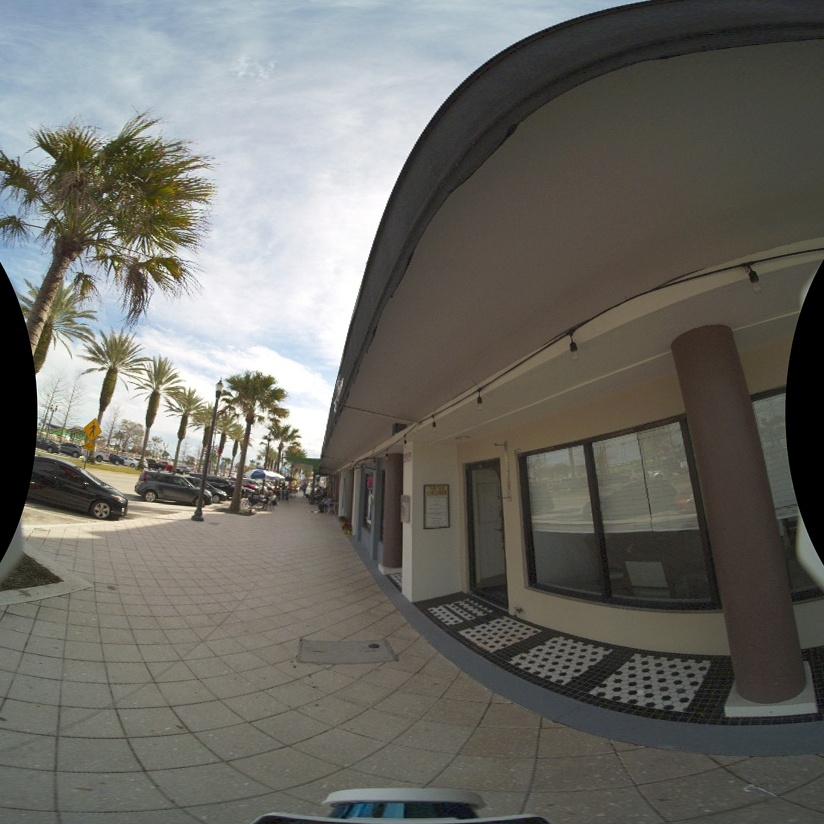
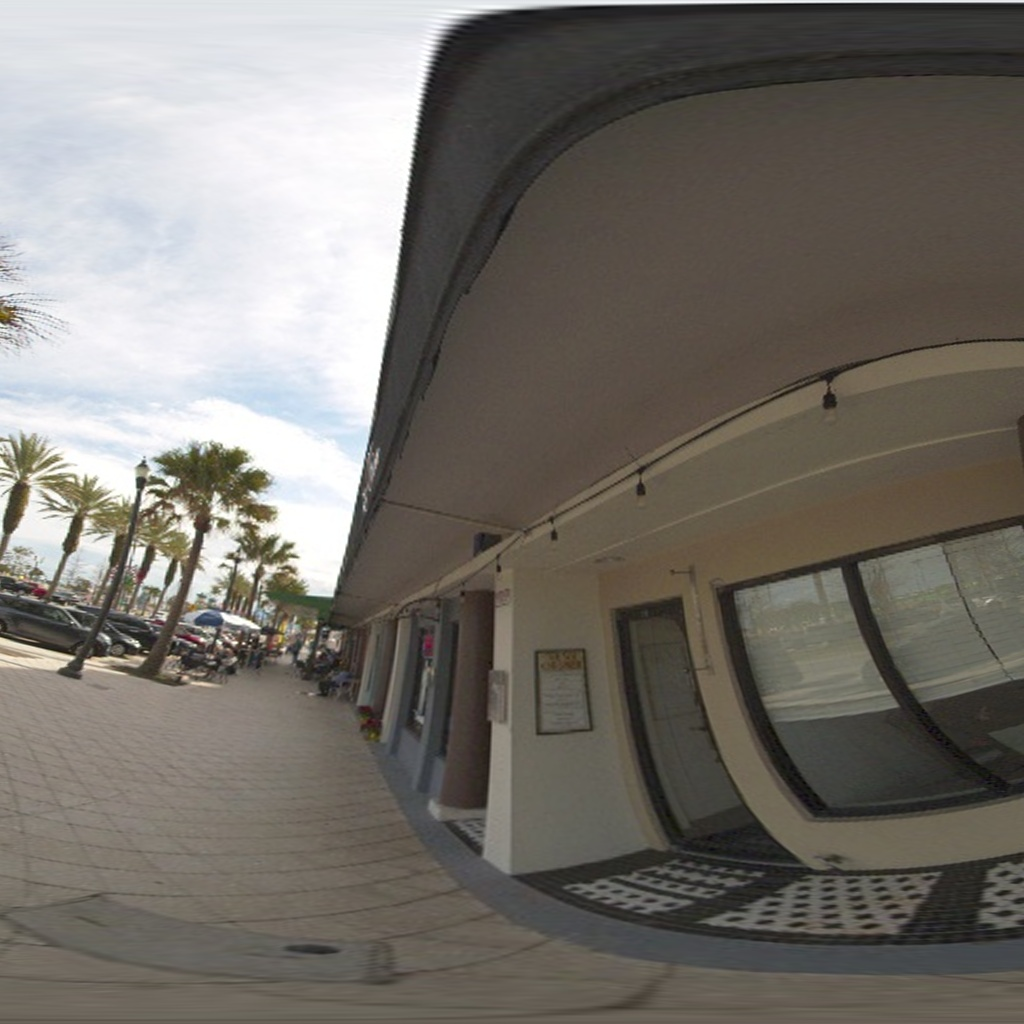
testing stitching algo

diff --git a/1_SCRIPTS/3_Testing/aframe_360_img.html b/1_SCRIPTS/3_Testing/aframe_360_img.html
@@ -16,7 +16,7 @@
         </a-camera>
 
         <!-- Loading in the initial image. -->
-        <a-sky id="background_img" src="0_resources/stitched_panorama8.jpg" background_img_id="'1"></a-sky>
+        <a-sky id="background_img" src="0_resources/00001-cam_stitched_panorama.jpg" background_img_id="'1"></a-sky>
         
         <!-- Creating planes to play a video or show an image -->
         <a-plane id="myButton" class="clickable" position="-9.322 -6.298 19.005" rotation="0 150.000 0" width="5" height="3" color="#4CC3D9" material="opacity: 0.5;">
@@ -40,7 +40,7 @@
 
         <a-entity id="move2" position="3 1.6 -4" class="clickable"
             geometry="primitive: ring; radiusInner: 0.02; radiusOuter: .5" material="color: #4CC3D9"
-            event-set__click="_target: #imageSky; _delay: 300; src: url(0_resources/stitched_panorama8.jpg)"
+            event-set__click="_target: #imageSky; _delay: 300; src: url(0_resources/00001-cam_stitched_panorama.jpg)"
             new_background_img_id = "1"
             background_img_id="2"
             my_type="move"

diff --git a/1_SCRIPTS/1_Preprocessing/equirectangular_projection.py b/1_SCRIPTS/1_Preprocessing/equirectangular_projection.py
@@ -88,11 +88,16 @@ def crop_image_sides(image, crop_pixels, side='horizontal'):
 
 # 0. Define input image
 image_folder = "new"
-image_paths = ['00001-cam0.jpg','00001-cam1.jpg', '00001-cam2.jpg','00001-cam3.jpg']
+img_name = "00001-cam"
+image_paths = [f'{img_name}2.jpg',f'{img_name}3.jpg', f'{img_name}0.jpg',f'{img_name}1.jpg']
 images = [cv2.imread(f"{image_folder}/{image_path}") for image_path in image_paths]
-for idx, image in enumerate(images):
+
+images = [cv2.imread("test5.jpg")]
+
+
+def fisheye_map(image, fov=80):
     width, height = image.shape[:2]
-    source_image = pad_image_to_square(image)
+    
 
     image_in_width = source_image.shape[0]
     image_in_height = source_image.shape[1]
@@ -103,45 +108,51 @@ for idx, image in enumerate(images):
 
     antialiasing = 2
     blend_factor = 0.5
-    fov = 60.0
-    aperture = .385
+    fov = (fov/180)*np.pi
 
     Cx = image_in_width / 2
     Cy = image_in_height / 2
-    image_radius = 1 #max([image_in_height, image_in_width])/2
+    image_radius = 1 #max([image_in_height, image_in_width])
+    xmax = np.sin(np.pi/2) * np.cos()
 
-    # 1. Define Cartesian Coordinates"
+    # 1. Define Cartesian Coordinates
     i, j = np.meshgrid(np.arange(image_out_width), np.arange(image_out_height))
 
     # 2. Normalize Cartesian Coordinates
-    i = i / image_out_width -.5 
-    j = j / image_out_height  -.5
+    i = (i / image_out_width -.5 )*2
+    j = (j / image_out_height  -.5)*2
 
     # 3. Get longitudinal and longitudinal coordinates in spherical coordinates    
     longitude = i * np.pi  
-    latitude   = j * np.pi 
+    latitude   = j * np.pi/2
 
     # 4. Convert Cartesian to Spherical Coordinates
     # Equivalent to arctan(y/x) or arctan(opp/adj)
-    x = image_radius * np.cos(longitude) * np.sin(latitude)
-    y = image_radius * np.cos(longitude) * np.cos(latitude)
-    z = image_radius * np.sin(longitude)
+    x = image_radius * np.cos(latitude) * np.cos(longitude)
+    y = image_radius * np.cos(latitude) * np.sin(longitude)
+    z = image_radius * np.sin(latitude)
 
     phi = np.arctan2(np.sqrt(x**2 + z**2), y)
     theta = np.arctan2(z, x) 
-    radius = 2 * phi / np.pi * 180 / aperture * image_radius
+    radius = 2 * phi / np.pi * 180 / fov / image_radius
 
-    X = (radius * np.cos(theta)).T.astype(np.float32) + Cy
-    Y = (radius * np.sin(theta)).T.astype(np.float32) + Cx
+    X = (radius * np.cos(theta)).T.astype(np.float32) - Cx
+    Y = (radius * np.sin(theta)).T.astype(np.float32) + Cy
 
+    return X, Y
+
+for idx, image in enumerate(images):
+    
+    source_image = pad_image_to_square(image)
+    X, Y = fisheye_map(image)
     output_image = cv2.remap(source_image, X, Y, interpolation=cv2.INTER_CUBIC, borderMode=cv2.BORDER_CONSTANT)
 
     plt.imshow(cv2.cvtColor(source_image, cv2.COLOR_BGR2RGB))
     plt.axis('off')
     plt.show()
 
-    output_image = crop_image_sides(output_image,100)
-    output_image = crop_image_sides(output_image, 100, side='vertical')
+    # output_image = crop_image_sides(output_image,150)
+    # output_image = crop_image_sides(output_image, 50, side='vertical')
 
     plt.imshow(cv2.cvtColor(output_image, cv2.COLOR_BGR2RGB))
     plt.axis('off')
@@ -156,27 +167,136 @@ for idx, image in enumerate(images):
 
 
 
-image_paths = ['00000-cam0_warped.jpg', '00000-cam1_warped.jpg', '00000-cam2_warped.jpg','00000-cam3_warped.jpg']
-images = [cv2.imread(f"{image_folder}/{image_path}") for image_path in image_paths]
-# Function to check if any image failed to load
-def all_images_loaded(images):
-    return all(image is not None for image in images)
+# images = [cv2.imread(f"{image_folder}/{image_path[:-4]}_warped.jpg") for image_path in image_paths]
+# # Function to check if any image failed to load
+# def all_images_loaded(images):
+#     return all(image is not None for image in images)
+
+
+# def crop_black_edges(image):
+#     # Convert image to grayscale
+#     gray = cv2.cvtColor(image, cv2.COLOR_BGR2GRAY)
+
+#     # Threshold the image to create a binary image
+#     _, thresh = cv2.threshold(gray, 1, 255, cv2.THRESH_BINARY)
+
+#     # Find contours
+#     contours, _ = cv2.findContours(thresh, cv2.RETR_EXTERNAL, cv2.CHAIN_APPROX_SIMPLE)
+
+#     # Find the bounding rectangle for the largest contour
+#     max_area = 0
+#     best_rect = (0, 0, image.shape[1], image.shape[0])  # Default to full image size
+#     for cnt in contours:
+#         x, y, w, h = cv2.boundingRect(cnt)
+#         area = w * h
+#         if area > max_area:
+#             max_area = area
+#             best_rect = x, y, w, h
+
+#     # Crop the image
+#     x, y, w, h = best_rect
+#     cropped_image = image[y:y+h, x:x+w]
+
+#     return cropped_image
+
+# # Check if we have four images
+# if not all_images_loaded(images):
+#     print("Some images are missing or not readable.")
+# else:
+#     # Create a stitcher object
+#     stitcher = cv2.Stitcher_create(mode=0)
+
+#     # Perform the stitching process"
+#     status, stitched_image = stitcher.stitch(images)
+#     # stitched_image = crop_black_edges(stitched_image)
+#     if status == cv2.Stitcher_OK:
+#         # Save the stitched image
+#         cv2.imwrite(f'{image_folder}/{img_name}_stitched_panorama.jpg', stitched_image)
+#         plt.imshow(cv2.cvtColor(stitched_image, cv2.COLOR_BGR2RGB))
+#         print("Stitching completed successfully and saved to 'stitched_panorama.jpg'.")
+#     else:
+#         print("Stitching failed. Error code:", status)
 
 
 
-# Check if we have four images
-if not all_images_loaded(images):
-    print("Some images are missing or not readable.")
-else:
-    # Create a stitcher object
-    stitcher = cv2.Stitcher_create(mode=0)
 
-    # Perform the stitching process"
-    status, stitched_image = stitcher.stitch(images)
-    if status == cv2.Stitcher_OK:
-        # Save the stitched image
-        cv2.imwrite('stitched_panorama8.jpg', stitched_image)
-        plt.imshow(cv2.cvtColor(stitched_image, cv2.COLOR_BGR2RGB))
-        print("Stitching completed successfully and saved to 'stitched_panorama.jpg'.")
-    else:
-        print("Stitching failed. Error code:", status)
+
+
+
+# def stitch_two_images(img1, img2):
+#     # Convert images to grayscale
+#     gray1 = cv2.cvtColor(img1, cv2.COLOR_BGR2GRAY)
+#     gray2 = cv2.cvtColor(img2, cv2.COLOR_BGR2GRAY)
+
+#     # Create SIFT detector and descriptor
+#     sift = cv2.SIFT_create()
+
+#     # Find keypoints and descriptors
+#     keypoints1, descriptors1 = sift.detectAndCompute(gray1, None)
+#     keypoints2, descriptors2 = sift.detectAndCompute(gray2, None)
+
+#     # FLANN parameters
+#     FLANN_INDEX_KDTREE = 1
+#     index_params = dict(algorithm=FLANN_INDEX_KDTREE, trees=5)
+#     search_params = dict(checks=50)
+
+#     # Create FLANN matcher
+#     flann = cv2.FlannBasedMatcher(index_params, search_params)
+
+#     # Match descriptors
+#     matches = flann.knnMatch(descriptors1, descriptors2, k=2)
+
+#     # Lowe's ratio test to filter good matches
+#     good_matches = []
+#     for m, n in matches:
+#         if m.distance < 0.7 * n.distance:
+#             good_matches.append(m)
+
+#     # Extract location of good matches
+#     points1 = np.zeros((len(good_matches), 2), dtype=np.float32)
+#     points2 = np.zeros((len(good_matches), 2), dtype=np.float32)
+
+#     # Homography if enough good matches are found
+#     MIN_MATCH_COUNT = 10
+#     if len(good_matches) > MIN_MATCH_COUNT:
+#         src_pts = np.float32([keypoints1[m.queryIdx].pt for m in good_matches]).reshape(-1, 1, 2)
+#         dst_pts = np.float32([keypoints2[m.trainIdx].pt for m in good_matches]).reshape(-1, 1, 2)
+
+#         # Find homography matrix
+#         H, _ = cv2.findHomography(src_pts, dst_pts, cv2.RANSAC, 5.0)
+
+#         # Use homography
+#         height, width, channels = img2.shape
+#         img1_warped = cv2.warpPerspective(img1, H, (width, height))
+
+#         # Overlap images
+#         img1_warped[0:height, 0:width] = img2
+#         return img1_warped
+#     else:
+#         print("Not enough matches found - %d/%d" % (len(good_matches), MIN_MATCH_COUNT))
+#         return None
+
+# # Load images
+# img1 = images[0]
+# img2 = images[1]
+# img3 = images[2]
+# img4 = images[3]
+
+# # Stitch images in pairs
+# result_12 = stitch_two_images(img1, img2)
+# result_34 = stitch_two_images(img3, img4)
+
+# # Check if stitching was successful
+# if result_12 is not None and result_34 is not None:
+#     # Stitch the results
+#     final_result = stitch_two_images(result_12, result_34)
+
+#     # Display the final stitched image
+#     if final_result is not None:
+#         cv2.imshow('Final Stitched Image', result_34)
+#         cv2.waitKey(0)
+#         cv2.destroyAllWindows()
+#     else:
+#         print("Final stitching failed.")
+# else:
+#     print("Pairwise stitching failed.")
